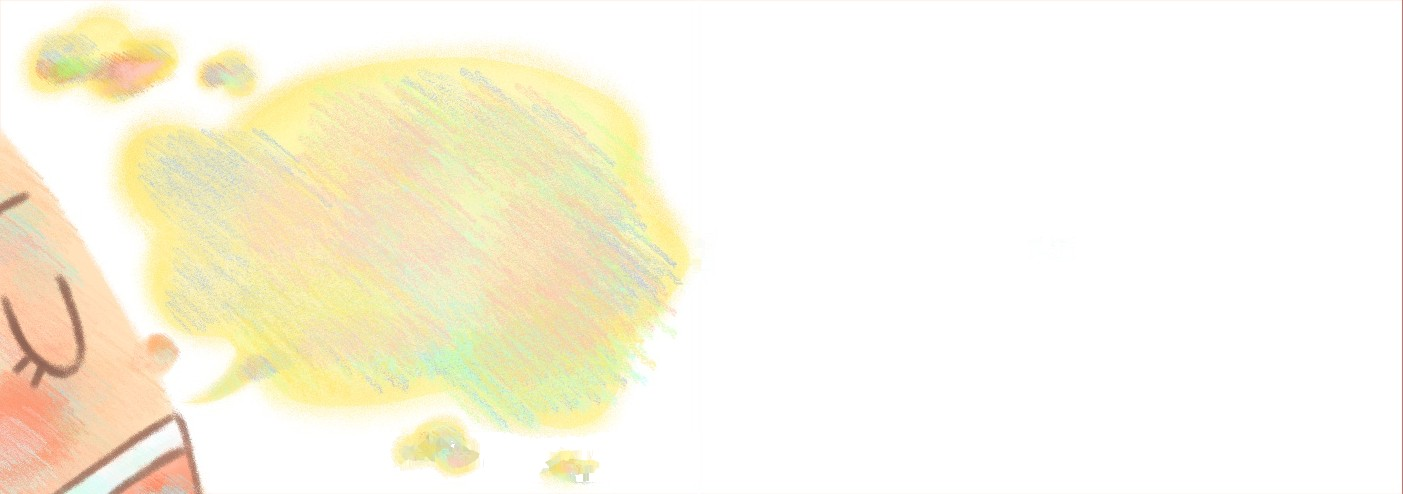
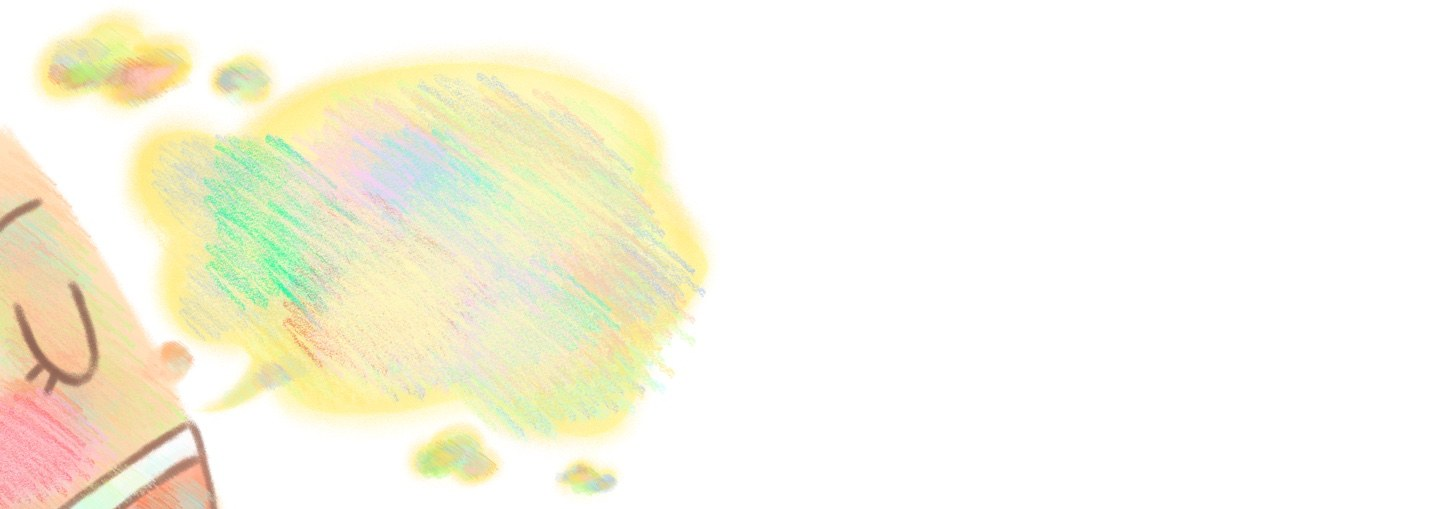
V1.34: 받은 삽화로 바꾸기 — 장면 그림, 창틀·덧창, 구름, 앞·뒤표지
- 장면 그림 교체(펼침면 594:210로 가운데 맞춰 자름): #1 하늘·마을, #2·3 꿈속 식탁, #4 식탁, #5 요정,
  #6 말풍선, #7 서빙(삽화가 오른쪽 반에 있어 11쪽 자리로 옮김), #9 맛, #10 침실
- #10 창: 그린 창틀(10-window-frame.png)을 날씨 위에 얹고, 그린 덧창(10-shutter-l/r.png)이 창을 덮었다가
  양옆(삽화 자리)으로 열림. 글 상자에 가리지 않게 삽화보다 조금 위·작게. 황금빛 편지 자리도 창틀에 맞춤
- 날씨 구름: 받은 구름 그림 두 덩이(assets/weather) — 흐린 날은 그대로 잔뜩, 맑은 날은 흰색으로 또렷하게·가로 0.6배
- 표지: 앞표지 00-cover.jpg, 뒷표지 00-back-cover.jpg는 화면엔 없고 PDF 맨 끝 장에
- 쓰지 않던 01-night.jpg 지움

Claude-Session: https://claude.ai/code/session_01Nbh8N8c4tqUAvigBFfQUWv

Changed region(s): [[0.0, 0.0, 0.4291, 1.0], [0.4291, 0.6984, 0.4597, 0.7287], [0.3065, 0.0911, 0.3371, 0.1215]]

diff --git a/storybook/js/weather.js b/storybook/js/weather.js
@@ -1,6 +1,6 @@
 /* 별빛스프 — #1 날씨 효과 (가장 위층)
    StarSoupWeather.start(canvas, kind) → stop 함수
-   kind: sunny(작고 푸른 그림자가 있는 구름 몇 개) · rain(빗줄기) · snow(눈송이) · cloudy(구름이 잔뜩 끼어 흘러감)
+   kind: sunny(흰 구름 몇 개) · rain(빗줄기) · snow(눈송이) · cloudy(구름이 잔뜩 끼어 흘러감) — 구름은 받은 구름 그림
    날씨는 #1의 핵심 장면이라 '움직임 줄이기'(갤럭시 '애니메이션 제거' 등)가 켜져 있어도 끄지 않고 절반 속도로 움직인다. */
 (function () {
   'use strict';
@@ -8,42 +8,48 @@
   var reduce = window.matchMedia && window.matchMedia('(prefers-reduced-motion: reduce)').matches;
   function rand(a, b) { return a + Math.random() * (b - a); }
 
-  // 구름 한 덩이: 겹친 동그라미 + 아래쪽 푸른 그림자
-  // sy: 세로 비율 (1보다 작으면 납작한 구름)
-  function drawCloud(g, x, y, s, body, shade, alpha, sy) {
-    sy = sy || 1;
-    var bumps = [[-0.9, 0.1, 0.55], [-0.4, -0.25, 0.75], [0.25, -0.35, 0.85], [0.85, 0, 0.6], [0, 0.15, 0.7]];
-    var blob = function (b, dy) { g.beginPath(); g.ellipse(x + b[0] * s, y + (b[1] * s + dy) * sy, b[2] * s, b[2] * s * sy, 0, 0, Math.PI * 2); g.fill(); };
-    g.globalAlpha = alpha * 0.9;
-    g.fillStyle = shade;
-    bumps.forEach(function (b) { blob(b, s * 0.22); });
+  // 받은 구름 그림 (assets/weather/cloud-1·2.png, 반투명한 흰 구름). 맑은 날용은 알파를 키워 흰색으로 또렷하게 만든다
+  var clouds = [], whiteClouds = [];
+  ['cloud-1', 'cloud-2'].forEach(function (n, i) {
+    var im = new Image();
+    im.onload = function () {
+      clouds[i] = im;
+      var c = document.createElement('canvas'); c.width = im.naturalWidth; c.height = im.naturalHeight;
+      var x = c.getContext('2d'); for (var k = 0; k < 3; k++) x.drawImage(im, 0, 0);   // 세 번 겹쳐 흰색으로
+      whiteClouds[i] = c;
+    };
+    im.src = 'assets/weather/' + n + '.png';
+  });
+  function drawSprite(g, im, x, y, w, h, alpha, flip) {
+    if (!im) return;
     g.globalAlpha = alpha;
-    g.fillStyle = body;
-    bumps.forEach(function (b) { blob(b, 0); });
+    if (flip) { g.save(); g.translate(x, 0); g.scale(-1, 1); g.drawImage(im, -w / 2, y - h / 2, w, h); g.restore(); }
+    else g.drawImage(im, x - w / 2, y - h / 2, w, h);
     g.globalAlpha = 1;
   }
 
   var kinds = {
     sunny: {
+      // 맑은 날: 받은 구름 그림을 흰색으로 더 또렷하게, 가로만 줄여(0.6) 동글게
       make: function (w, h) {
         var list = [];
-        // 하늘 전체에 고르게 (글 상자에 다 가려지지 않게), 작은 화면에서도 보이도록 최소 크기
-        for (var i = 0; i < 6; i++) list.push({ x: rand(0, w), y: h * (0.12 + i * 0.13) + rand(-h * 0.04, h * 0.04), s: Math.max(13, rand(h * 0.05, h * 0.08)), v: rand(0.1, 0.25), a: rand(0.85, 0.97) });
+        for (var i = 0; i < 5; i++) list.push({ x: rand(0, w), y: h * (0.08 + i * 0.15) + rand(-h * 0.03, h * 0.03), s: Math.max(40, rand(h * 0.16, h * 0.24)), v: rand(0.1, 0.25), k: i % 2, f: Math.random() < 0.5 });
         return list;
       },
       step: function (g, list, w, h, t, move) {
         list.forEach(function (c) {
+          var cw = c.s * 2.9 * 0.6;
           if (move !== false) c.x += c.v;
-          if (c.x - c.s * 2 > w) c.x = -c.s * 2;
-          drawCloud(g, c.x, c.y, c.s, '#ffffff', 'rgba(110, 150, 215, .38)', c.a);
+          if (c.x - cw / 2 > w) c.x = -cw / 2;
+          drawSprite(g, whiteClouds[c.k], c.x, c.y, cw, c.s, 1, c.f);
         });
       }
     },
     cloudy: {
+      // 흐린 날: 받은 구름 그림이 하늘 위쪽에 잔뜩 흘러간다
       make: function (w, h) {
         var list = [];
-        // 흐린 날: 납작한 구름이 하늘 위쪽에 잔뜩 (아래 마을을 가리지 않게)
-        for (var i = 0; i < 24; i++) list.push({ x: rand(-w * 0.1, w * 1.1), y: rand(-h * 0.06, h * 0.42), s: Math.max(18, rand(h * 0.1, h * 0.2)), v: rand(0.12, 0.45), a: rand(0.55, 0.9), tone: Math.random() });
+        for (var i = 0; i < 14; i++) list.push({ x: rand(-w * 0.1, w * 1.1), y: rand(-h * 0.04, h * 0.42), s: Math.max(50, rand(h * 0.22, h * 0.4)), v: rand(0.12, 0.4), a: rand(0.75, 1), k: i % 2, f: Math.random() < 0.5 });
         list.sort(function (a, b) { return a.s - b.s; });
         return list;
       },
@@ -51,10 +57,10 @@
         g.fillStyle = 'rgba(120, 128, 150, .22)';
         g.fillRect(0, 0, w, h);
         list.forEach(function (c) {
+          var cw = c.s * 2.9;
           if (move !== false) c.x += c.v;
-          if (c.x - c.s * 2 > w) c.x = -c.s * 2;
-          var body = c.tone < 0.5 ? '#d9dce6' : '#c3c8d6';
-          drawCloud(g, c.x, c.y, c.s, body, 'rgba(90, 98, 125, .45)', c.a, 0.55);
+          if (c.x - cw / 2 > w) c.x = -cw / 2;
+          drawSprite(g, clouds[c.k], c.x, c.y, cw, c.s, c.a, c.f);
         });
       }
     },

diff --git a/storybook/css/style.css b/storybook/css/style.css
@@ -1846,9 +1846,9 @@ button, .tile, .chip { touch-action: manipulation; }   /* 두 번 탭 확대와 
 }
 
 /* ---------- #10 18쪽: 황금빛 편지 (창틀에 누워 '터치'로 펼치는 운세·조언) ---------- */
-.fortune { position: absolute; left: calc(50% + 21cqh); top: 60.6cqh; width: 17cqh; transform: translate(-50%, -100%); z-index: 4; }
+.fortune { position: absolute; left: calc(50% + 21cqh); top: 59cqh; width: 15cqh; transform: translate(-50%, -100%); z-index: 4; }
 @media (max-width: 600px) and (orientation: portrait), (max-height: 500px) and (orientation: landscape) {
-  .fortune { top: 54.6cqh; }
+  .fortune { top: 59cqh; }
 }
 .fortune-fly { position: relative; transform: perspective(30cqh) rotateX(58deg); transform-origin: 50% 50%; }   /* 창틀에 누운 봉투: 먼 쪽(윗면)이 좁아진다 */
 .fortune-note { display: block; width: 100%; padding: 0; border: 0; background: none; cursor: pointer; -webkit-tap-highlight-color: transparent;
@@ -1894,3 +1894,20 @@ button, .tile, .chip { touch-action: manipulation; }   /* 두 번 탭 확대와 
 /* 식자 그림 위에 덧쓰는 글자 (직접 고른 음식 이름): 식자와 같은 글꼴·검정 */
 .arc-lettering { position: absolute; inset: 0; z-index: 3; pointer-events: none; }
 .arc-ch { position: absolute; font-family: "Ownglyph PDH", "Gowun Dodum", sans-serif; line-height: 1; color: #111; white-space: pre; }
+
+/* ---------- #10 18쪽 창문: 그린 창틀(10-window-frame.png)과 덧창(10-shutter-l/r.png) ----------
+   창 자리는 삽화 그대로(쪽 기준): 창틀 상자 left 29.13% · top 18.45% · 40.34% × 62.7%.
+   창 너머(날씨)는 창틀 안쪽에, 그린 창틀이 그 위에, 덧창은 닫히면 창을 덮고 열리면 창 양옆(그림 자리)에 */
+.page.has-window .win, .book.is-print .page.has-window .win, .page.has-window .win.is-open, .book.is-print .page.has-window .win.is-open {
+  left: 31.6cqw !important; top: 4.5cqh !important; width: 35.4cqw !important; height: 55cqh !important; margin: 0 !important; }   /* 글 상자가 창을 가리지 않게 삽화보다 조금 위로 */
+.page.has-window .win-view { inset: 5% 6% !important; border-radius: 0 !important; }
+.page.has-window .win-frame, .book.is-print .page.has-window .win-frame { inset: 0; border: 0 !important; outline: none !important; box-shadow: none !important; border-radius: 0;
+  background: url("../assets/backgrounds/10-window-frame.png") center / 100% 100% no-repeat !important; }
+.page.has-window .win-sill { display: none !important; }
+.page.has-window .win-pane, .book.is-print .page.has-window .win-pane {
+  top: 0.6% !important; bottom: auto !important; height: 100% !important; border: 0 !important; outline: none !important; box-shadow: none !important; border-radius: 0 !important;
+  background: center / 100% 100% no-repeat !important; }
+.page.has-window .win-pane--l, .book.is-print .page.has-window .win-pane--l { background-image: url("../assets/backgrounds/10-shutter-l.png") !important; left: 5%; right: auto; width: 45%; }
+.page.has-window .win-pane--r, .book.is-print .page.has-window .win-pane--r { background-image: url("../assets/backgrounds/10-shutter-r.png") !important; right: 5%; left: auto; width: 45%; }
+.page.has-window .win.is-open .win-pane--l, .book.is-print .page.has-window .win.is-open .win-pane--l { left: -54.2% !important; right: auto !important; width: 63.5% !important; transform: none !important; }
+.page.has-window .win.is-open .win-pane--r, .book.is-print .page.has-window .win.is-open .win-pane--r { right: -54.9% !important; left: auto !important; width: 62.5% !important; transform: none !important; }

diff --git a/storybook/js/main.js b/storybook/js/main.js
@@ -551,8 +551,9 @@
       [glow, paneL, paneR, hint].forEach(function (n) { n.getAnimations().forEach(function (a) { a.cancel(); }); });
       hint.style.opacity = '0';
       // 덧창이 바깥으로 활짝 펼쳐지며 창 양옆에 접힌다 (닫힌 자리 → 양옆)
-      var openL = [{ left: '3cqh', width: 'calc(50% - 3cqh)' }, { left: '-15%', width: '15%' }];
-      var openR = [{ right: '3cqh', width: 'calc(50% - 3cqh)' }, { right: '-15%', width: '15%' }];
+      // 그린 덧창: 창을 덮은 자리 → 창 양옆(삽화 속 자리)으로
+      var openL = [{ left: '5%', width: '45%' }, { left: '-54.2%', width: '63.5%' }];
+      var openR = [{ right: '5%', width: '45%' }, { right: '-54.9%', width: '62.5%' }];
       // 두 창이 다 열리고 나서 0.2초 뒤에 묻는 화면이 나온다 (열리는 도중에 넘어가며 튕기지 않게)
       var aL = paneL.animate(openL, { duration: 750, easing: 'cubic-bezier(.3,.7,.2,1)', fill: 'forwards' });
       var aR = paneR.animate(openR, { duration: 750, easing: 'cubic-bezier(.3,.7,.2,1)', fill: 'forwards' });
@@ -2809,6 +2810,20 @@
     });
     chain.then(function () {
       if (pendingHalf) { addCanvas(pendingHalf, 0, pendingHalf.width); pendingHalf = null; }
+      // 뒷표지 (화면에는 없고 PDF 맨 끝에만, 가로 A4 한 장)
+      if (!S.cover.backImage) return;
+      pdfBusy('뒷표지를 담고 있어요…');
+      return new Promise(function (resolve) {
+        var im = new Image();
+        im.onload = function () {
+          var cv = document.createElement('canvas'); cv.width = im.naturalWidth; cv.height = im.naturalHeight;
+          cv.getContext('2d').drawImage(im, 0, 0);
+          addCanvas(cv, 0, cv.width); resolve();
+        };
+        im.onerror = function () { resolve(); };
+        im.src = S.cover.backImage;
+      });
+    }).then(function () {
       pdfBusy('');
       host.remove();
       var n = (state.name || '').trim();

diff --git a/storybook/index.html b/storybook/index.html
@@ -8,8 +8,8 @@
 <link rel="preconnect" href="https://fonts.googleapis.com">
 <link rel="preconnect" href="https://fonts.gstatic.com" crossorigin>
 <link rel="stylesheet" href="https://fonts.googleapis.com/css2?family=Gowun+Dodum&family=Jua&display=swap">
-<link rel="stylesheet" href="css/style.css?v=1.33">
-<link rel="stylesheet" href="css/editor.css?v=1.33">
+<link rel="stylesheet" href="css/style.css?v=1.34">
+<link rel="stylesheet" href="css/editor.css?v=1.34">
 </head>
 <body>
 <div class="app" id="app" data-screen="cover">
@@ -236,12 +236,12 @@
   </div>
 </div>
 
-<script src="js/storage.js?v=1.33"></script>
-<script src="js/story.js?v=1.33"></script>
-<script src="js/drawing.js?v=1.33"></script>
-<script src="js/weather.js?v=1.33"></script>
-<script src="js/sound.js?v=1.33"></script>
-<script src="js/shared.js?v=1.33"></script>
-<script src="js/main.js?v=1.33"></script>
+<script src="js/storage.js?v=1.34"></script>
+<script src="js/story.js?v=1.34"></script>
+<script src="js/drawing.js?v=1.34"></script>
+<script src="js/weather.js?v=1.34"></script>
+<script src="js/sound.js?v=1.34"></script>
+<script src="js/shared.js?v=1.34"></script>
+<script src="js/main.js?v=1.34"></script>
 </body>
 </html>

diff --git a/storybook/js/story.js b/storybook/js/story.js
@@ -449,14 +449,15 @@
 
   /* ---------- 표지 ---------- */
   var cover = {
-    image: null,   // 표지 그림 (가로 A4, 297:210). 그림이 생기면 'assets/backgrounds/00-cover.png'
+    image: 'assets/backgrounds/00-cover.jpg',          // 앞표지 그림 (가로 A4, 297:210)
+    backImage: 'assets/backgrounds/00-back-cover.jpg', // 뒷표지: 화면에는 안 띄우고 PDF 맨 끝에만
     kicker: '꿈속 식탁 이야기',
     title: '별빛스프',
     subtitle: '착한 아이에게 주는 특별한 스프'
   };
 
   window.StarSoup = {
-    version: '1.33',   // 게시할 때마다 0.01씩 올린다 (1.19 → 1.20 …, index.html의 ?v= 와 맞춘다)
+    version: '1.34',   // 게시할 때마다 0.01씩 올린다 (1.19 → 1.20 …, index.html의 ?v= 와 맞춘다)
     cover: cover,
     acts: acts,
     foods: foods,
